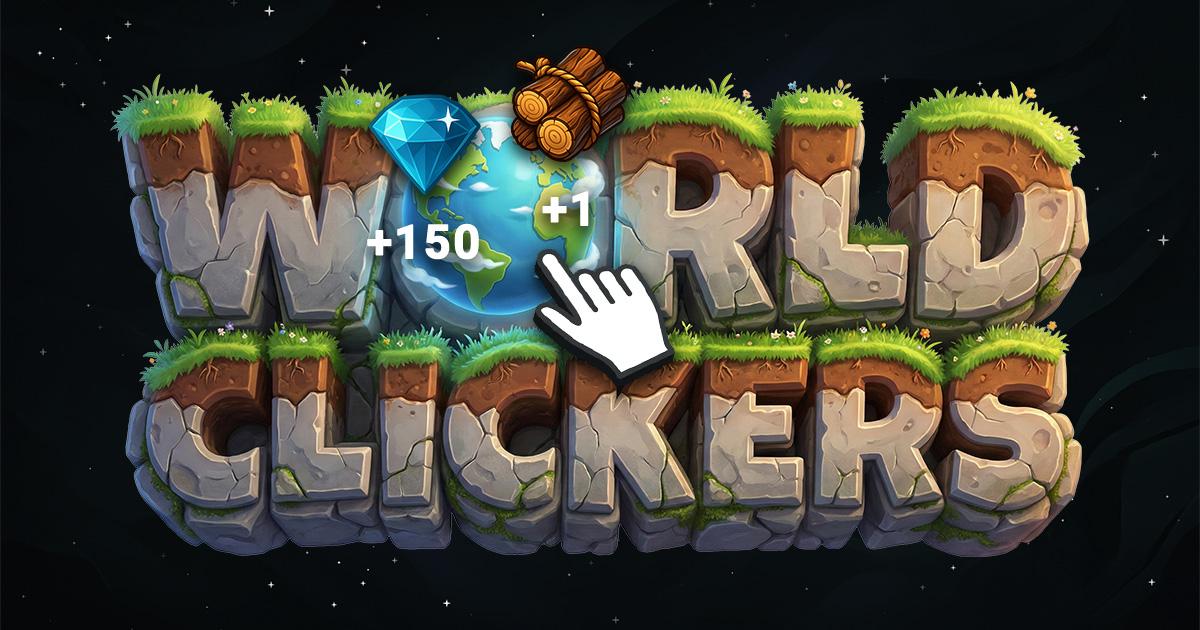
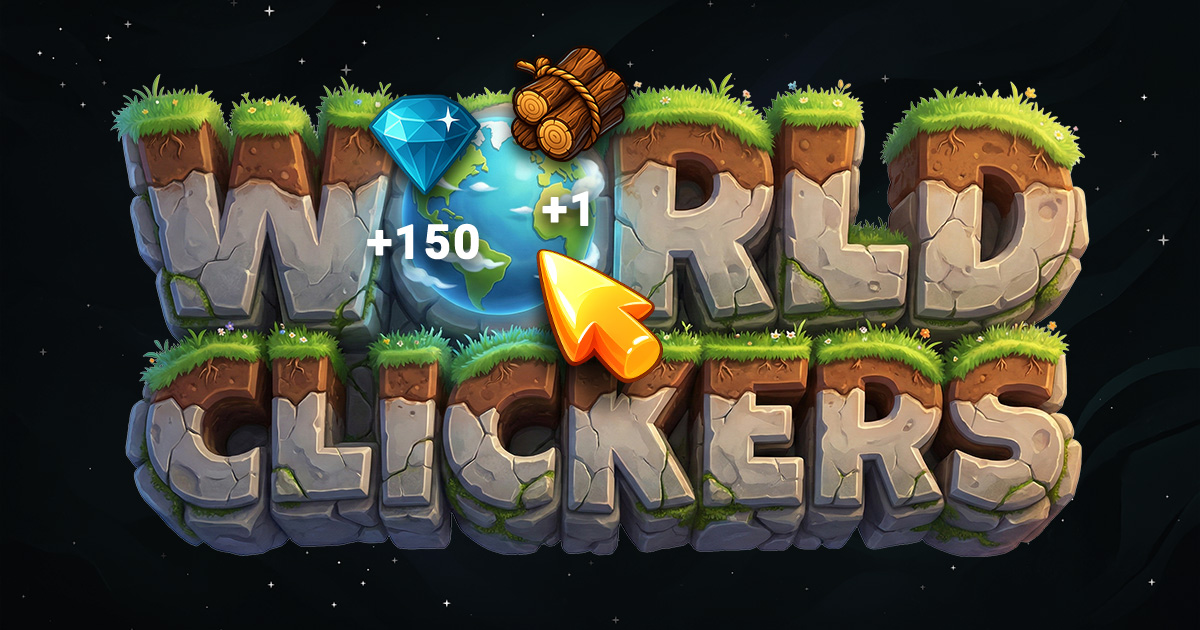
Add files via upload

Changed region(s): [[0.4317, 0.3921, 0.5858, 0.6635]]

diff --git a/world-clickers/style.css b/world-clickers/style.css
@@ -23,12 +23,20 @@ body {
     color: white;
 }
 
+/* --- Custom Cursor (Desktop Only) --- */
+@media (pointer: fine) {
+    * {
+        cursor: url('cursor.png'), auto !important;
+    }
+}
+
 /* --- Standalone Pages (Login, Nickname, etc.) --- */
 .standalone-page,
 .standalone-page body {
-    overflow: hidden !important;
-    height: 100vh !important;
-    width: 100vw !important;
+    overflow: auto !important;
+    min-height: 100vh !important;
+    height: auto !important;
+    width: 100% !important;
     margin: 0;
     padding: 0;
 }
@@ -424,19 +432,12 @@ body {
 .moon-travel-btn {
     position: absolute;
     bottom: -30px;
-    /* Moved down 20px (was -10px) */
     right: -20px;
-    /* Moved right 20px (outwards) */
-    /* Fixed Width Layout - Reduced to ~60% */
     width: 75px;
     display: flex;
-    flex-direction: column;
+    justify-content: center;
     align-items: center;
-    /* Center Align */
-    cursor: pointer;
     z-index: 15;
-
-    /* Default: Hidden (Before Game Start / During Travel) */
     opacity: 0;
     pointer-events: none;
     transition: opacity 0.5s ease;
@@ -447,51 +448,15 @@ body {
     pointer-events: auto;
 }
 
-.moon-travel-btn i {
-    font-size: 2rem;
-    color: white;
-    transform: rotate(-90deg);
-    /* 90 degrees total */
-    filter: drop-shadow(0 2px 5px rgba(0, 0, 0, 0.8));
-    margin-bottom: 10px;
-    /* Reduced distance */
-    margin-right: 0;
-    transition: transform 0.2s;
-    transform-origin: center;
+.moon-travel-btn img {
+    width: 100%;
+    height: auto;
+    filter: drop-shadow(0 4px 8px rgba(0, 0, 0, 0.6));
+    transition: transform 0.2s ease;
 }
 
-.moon-travel-btn:hover i {
-    transform: rotate(-90deg) scale(1.1);
-    /* Center scale only */
-}
-
-.moon-travel-btn .text-container {
-    display: flex;
-    flex-direction: column;
-    align-items: center;
-    /* Center Align */
-    text-align: center;
-    margin-top: 7px;
-    /* Moved text down 7px */
-}
-
-.moon-travel-btn span {
-    font-family: 'Roboto', system-ui, sans-serif;
-    color: white;
-    font-size: 0.8rem;
-    opacity: 0.7;
-    text-shadow: 0 2px 5px rgba(0, 0, 0, 0.8);
-    line-height: 1.2;
-}
-
-.moon-travel-btn .title {
-    font-weight: 900;
-    /* Bold */
-    font-size: 1.4rem;
-    /* Larger */
-    opacity: 0.5;
-    /* 50% opacity */
-    letter-spacing: 1px;
+.moon-travel-btn:hover img {
+    transform: scale(1.1);
 }
 
 
@@ -1564,24 +1529,11 @@ a.menu-item:hover {
         font-size: 2.5rem;
     }
 
-    /* --- Travel Button - Moved down more --- */
+    /* Travel button mobile adjustments */
     .moon-travel-btn {
         bottom: -50px;
         right: -10px;
         width: 60px;
-    }
-
-    .moon-travel-btn i {
-        font-size: 1.5rem;
-        margin-bottom: 8px;
-    }
-
-    .moon-travel-btn span {
-        font-size: 0.65rem;
-    }
-
-    .moon-travel-btn .title {
-        font-size: 1rem;
     }
 
     /* --- Overlay Panels --- */
@@ -1728,6 +1680,11 @@ a.menu-item:hover {
 
 /* Extra small screens (phones in portrait) */
 @media (max-width: 400px) {
+    :root {
+        --globe-width: 354px;
+        /* 240px container * 1.475 aspect ratio */
+    }
+
     .globe-wrapper-anchor {
         width: 240px;
         height: 240px;
@@ -1736,24 +1693,6 @@ a.menu-item:hover {
     .globe-mask {
         width: 234px;
         height: 234px;
-    }
-
-    /* Fix stretched globe textures for extra small screens */
-    /* 240px container * 1.4725 = ~354px width */
-    .earth-layer,
-    .moon-layer,
-    .clouds-layer {
-        background-size: 354px auto;
-    }
-
-    @keyframes rotateGlobe {
-        from {
-            background-position-x: 0px;
-        }
-
-        to {
-            background-position-x: 354px;
-        }
     }
 
     .shading-layer {
@@ -2538,5 +2477,11 @@ a.menu-item:hover {
 
     .profile-value {
         font-size: 2rem;
+    }
+
+    /* Increase spacing between nickname and score on mobile */
+    .profile-value-display {
+        margin-top: 10px;
+        margin-bottom: 20px;
     }
 }

diff --git a/world-clickers/index.html b/world-clickers/index.html
@@ -18,13 +18,13 @@
         content="Mine resources, compete for your country, unlock the Moon, and become a legendary astronaut in World Clickers.">
     <meta property="og:type" content="website">
     <meta property="og:url" content="https://worldclickers.com">
-    <meta property="og:image" content="https://elblasy.com/world-clickers/open_graph_image.jpg">
+    <meta property="og:image" content="https://worldclickers.com/open_graph_image.jpg">
     <!-- Twitter Card -->
     <meta name="twitter:card" content="summary_large_image">
     <meta name="twitter:title" content="World Clickers – Global Idle Mining Game by Country">
     <meta name="twitter:description"
         content="A global idle clicker game where countries compete and astronauts make history.">
-    <meta name="twitter:image" content="https://elblasy.com/world-clickers/open_graph_image.jpg">
+    <meta name="twitter:image" content="https://worldclickers.com/open_graph_image.jpg">
     <link rel="stylesheet" href="style.css">
     <!-- Font Awesome for Icons -->
     <link rel="stylesheet" href="https://cdnjs.cloudflare.com/ajax/libs/font-awesome/6.4.0/css/all.min.css">
@@ -133,11 +133,7 @@
 
                 <!-- Moon Travel Button (Static) -->
                 <div class="moon-travel-btn" id="btn-travel">
-                    <i class="fa-solid fa-shuttle-space"></i>
-                    <div class="text-container">
-                        <span>Fly to The</span>
-                        <span class="title">Moon</span>
-                    </div>
+                    <img src="space/rocket.png" alt="Travel Rocket">
                 </div>
 
             </div>
@@ -190,6 +186,5 @@
 
     <script src="script.js"></script>
 </body>
-
 
 </html>

diff --git a/world-clickers/script.js b/world-clickers/script.js
@@ -118,8 +118,7 @@ const dom = {
 
     // Travel
     btnTravel: document.getElementById('btn-travel'),
-    btnTravelText: document.querySelector('#btn-travel .title'),
-    btnTravelHelper: document.querySelector('#btn-travel .text-container span:first-child'),
+
 
     // Travel Confirmation Popup
     travelConfirmOverlay: document.getElementById('travel-confirm-overlay'),
@@ -335,13 +334,7 @@ function spawnPopup(x, y, resource) {
 
 // --- Travel Logic ---
 function updateTravelButton() {
-    if (state.location === 'EARTH') {
-        dom.btnTravelHelper.textContent = "Fly to the";
-        dom.btnTravelText.textContent = "Moon";
-    } else {
-        dom.btnTravelHelper.textContent = "Fly to";
-        dom.btnTravelText.textContent = "Earth";
-    }
+    // No text to update - button is now a rocket image
 }
 
 function handleTravel() {
@@ -477,6 +470,11 @@ function handleMine(e) {
     } else {
         clientX = e.clientX;
         clientY = e.clientY;
+    }
+
+    // On mobile, offset popup above finger so it's not hidden
+    if (e.type === 'touchstart') {
+        clientY -= 80;
     }
 
     spawnPopup(clientX, clientY, resource);
